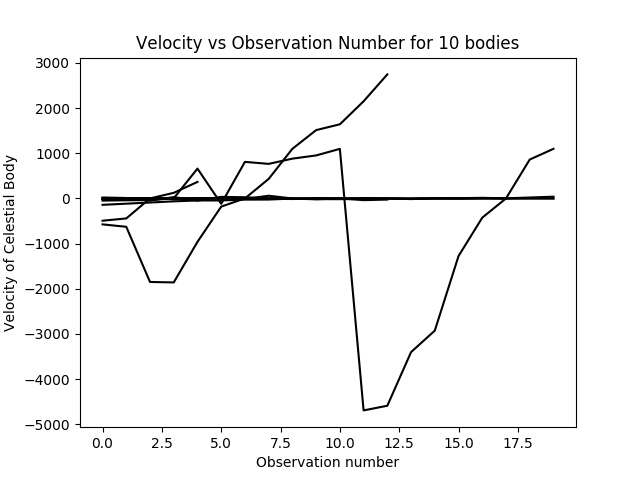
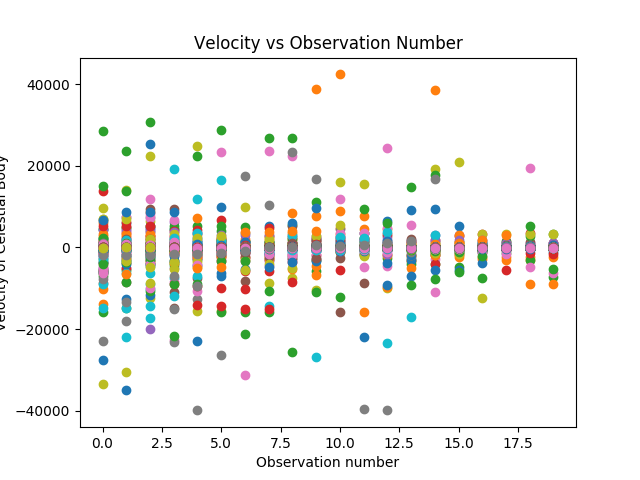
Made example graph look better

diff --git a/ProcessData.py b/ProcessData.py
@@ -44,13 +44,13 @@ def startProcessing():
 	print keck_velfiles['HTR161-009'];		
 
 	fig = plt.figure()
-	plt.title("Velocity vs Observation Number for 10 bodies");
+	plt.title("Velocity vs Observation Number");
 	plt.xlabel("Observation number");
 
 	plt.ylabel("Velocity of Celestial Body");	
-	for name in keck_names[50:60]:
+	for name in keck_names:
 		vels = keck_velfiles[name]['vel'][:20];
-		plt.plot(vels, 'k');
+		plt.plot(vels, 'o');
 	plt.show();
 	fig.savefig("media/fig1.png");
 
